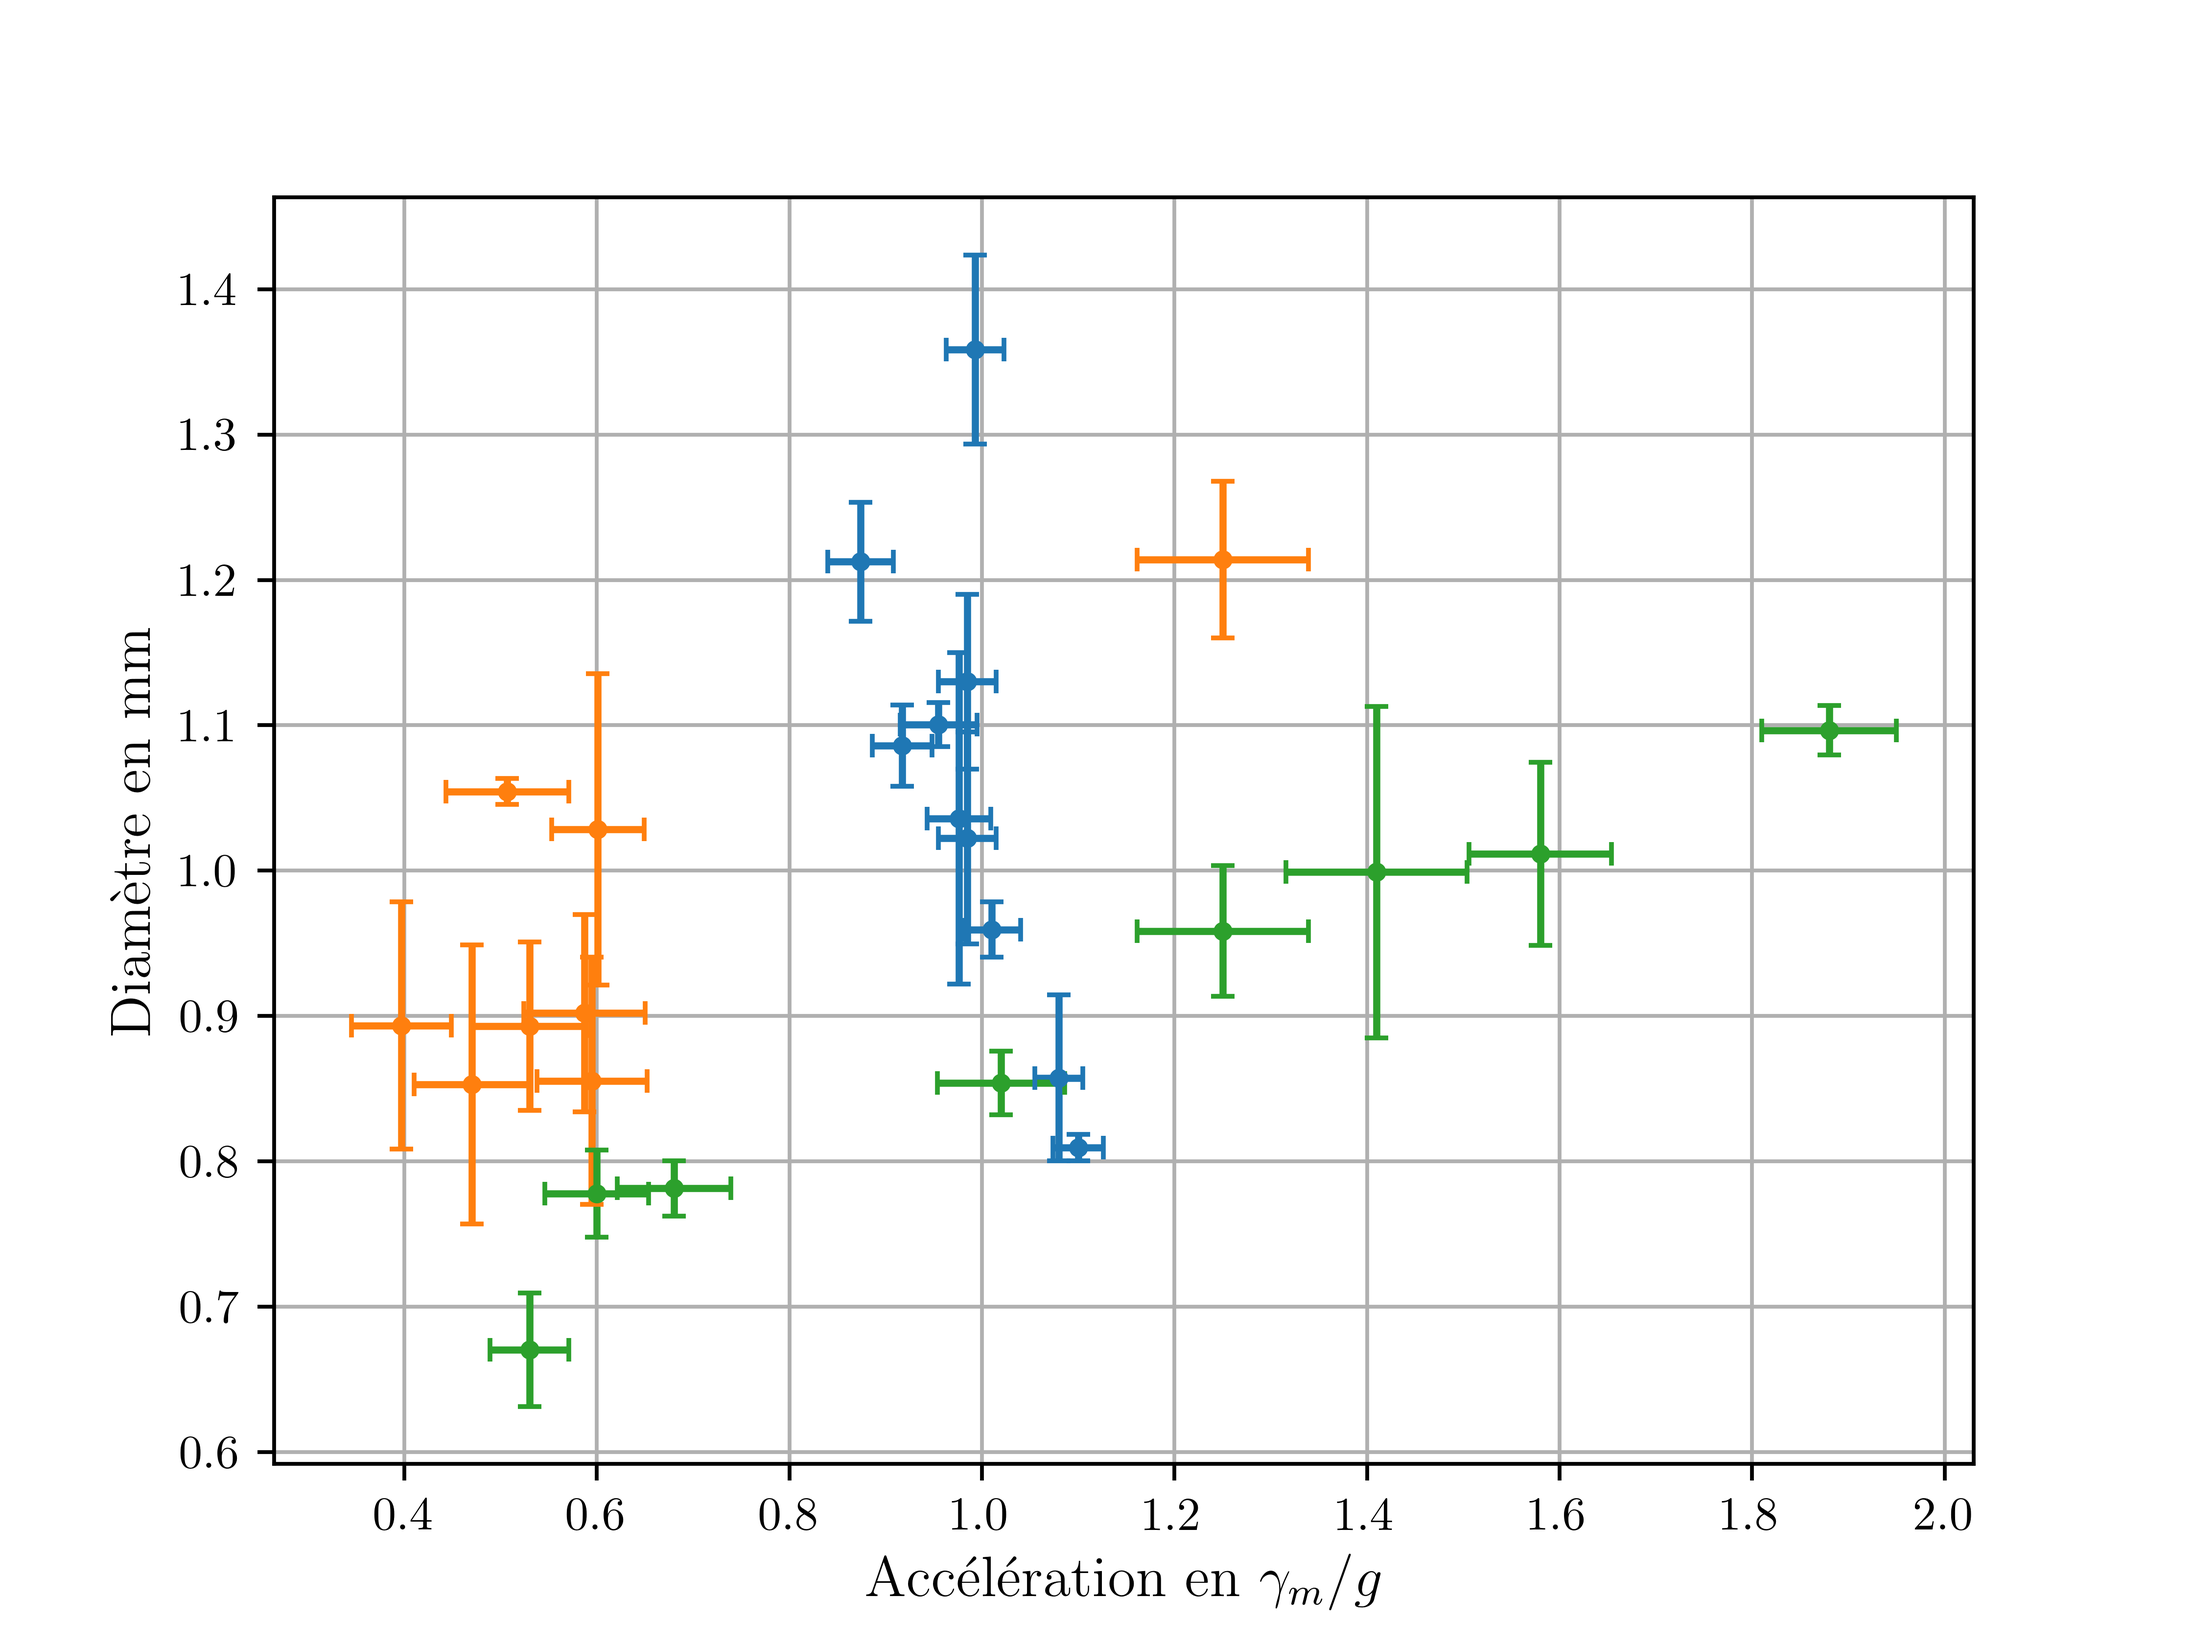
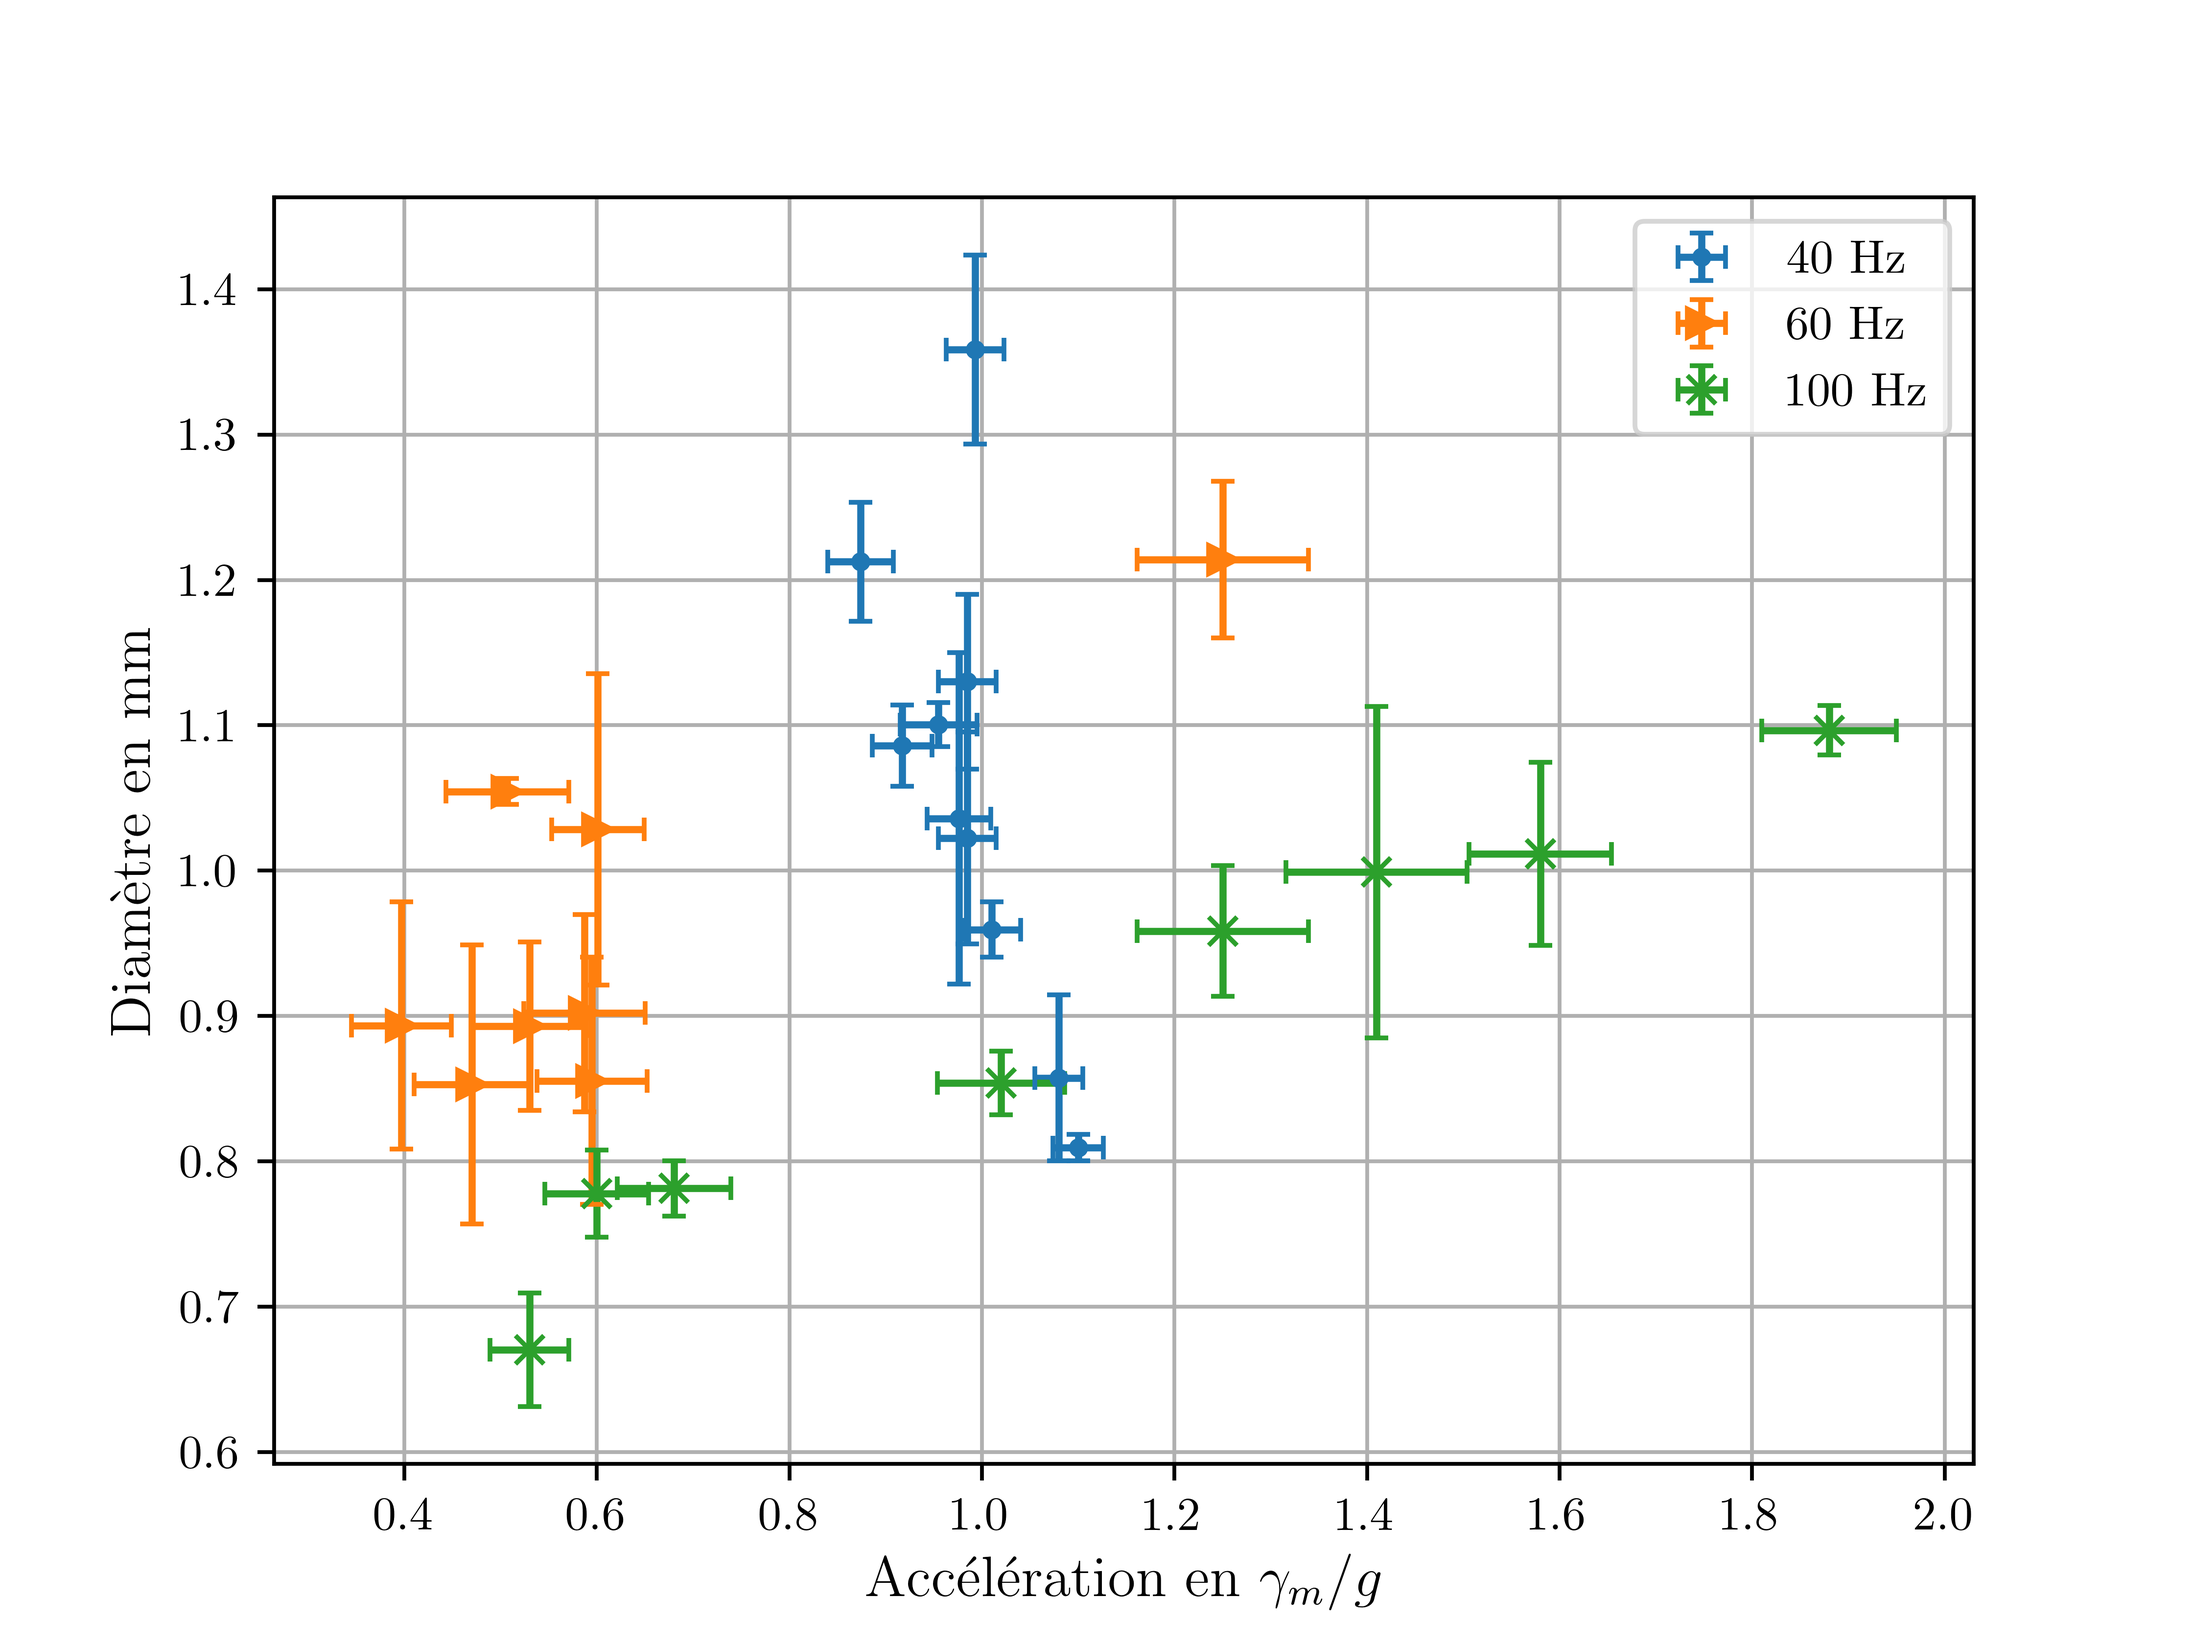
dim. 24 mars 14:33

Changed region(s): [[0.75, 0.125, 0.9062, 0.25]]

diff --git a/Data/graphs/Fmf.py b/Data/graphs/Fmf.py
@@ -37,7 +37,7 @@ X	= Data[:,0];
 X_error	= Data[:,1];
 Y	= Data[:,2];
 Y_error	= Data[:,3];
-error(X, Y, xerr=X_error, yerr=Y_error, fmt='.',capsize=2.5);
+error(X, Y, xerr=X_error, yerr=Y_error, fmt='.',capsize=2.5,label = "40 Hz");
 
 Data = load("./mort_60Hz.txt");
 
@@ -45,7 +45,7 @@ X	= Data[:,0];
 X_error	= Data[:,1];
 Y	= Data[:,2];
 Y_error	= Data[:,3];
-error(X, Y, xerr=X_error, yerr=Y_error, fmt='.',capsize=2.5);
+error(X, Y, xerr=X_error, yerr=Y_error, fmt='>',capsize=2.5,label = "60 Hz");
 
 Data = load("./mort_100Hz.txt");
 
@@ -53,12 +53,12 @@ X	= Data[:,0];
 X_error	= Data[:,1];
 Y	= Data[:,2];
 Y_error	= Data[:,3];
-error(X, Y, xerr=X_error, yerr=Y_error, fmt='.',capsize=2.5);
+error(X, Y, xerr=X_error, yerr=Y_error, fmt='x',capsize=2.5, label = "100 Hz");
 
 set_xlabel(r'Accélération en ${\gamma_m/g}$', fontsize=12);
 set_ylabel(r'Diamètre en mm', fontsize=12);
 
-
+plt.legend();
 grid(True);
 plt.savefig('Frontièremorts.png', dpi=700);
 show();
